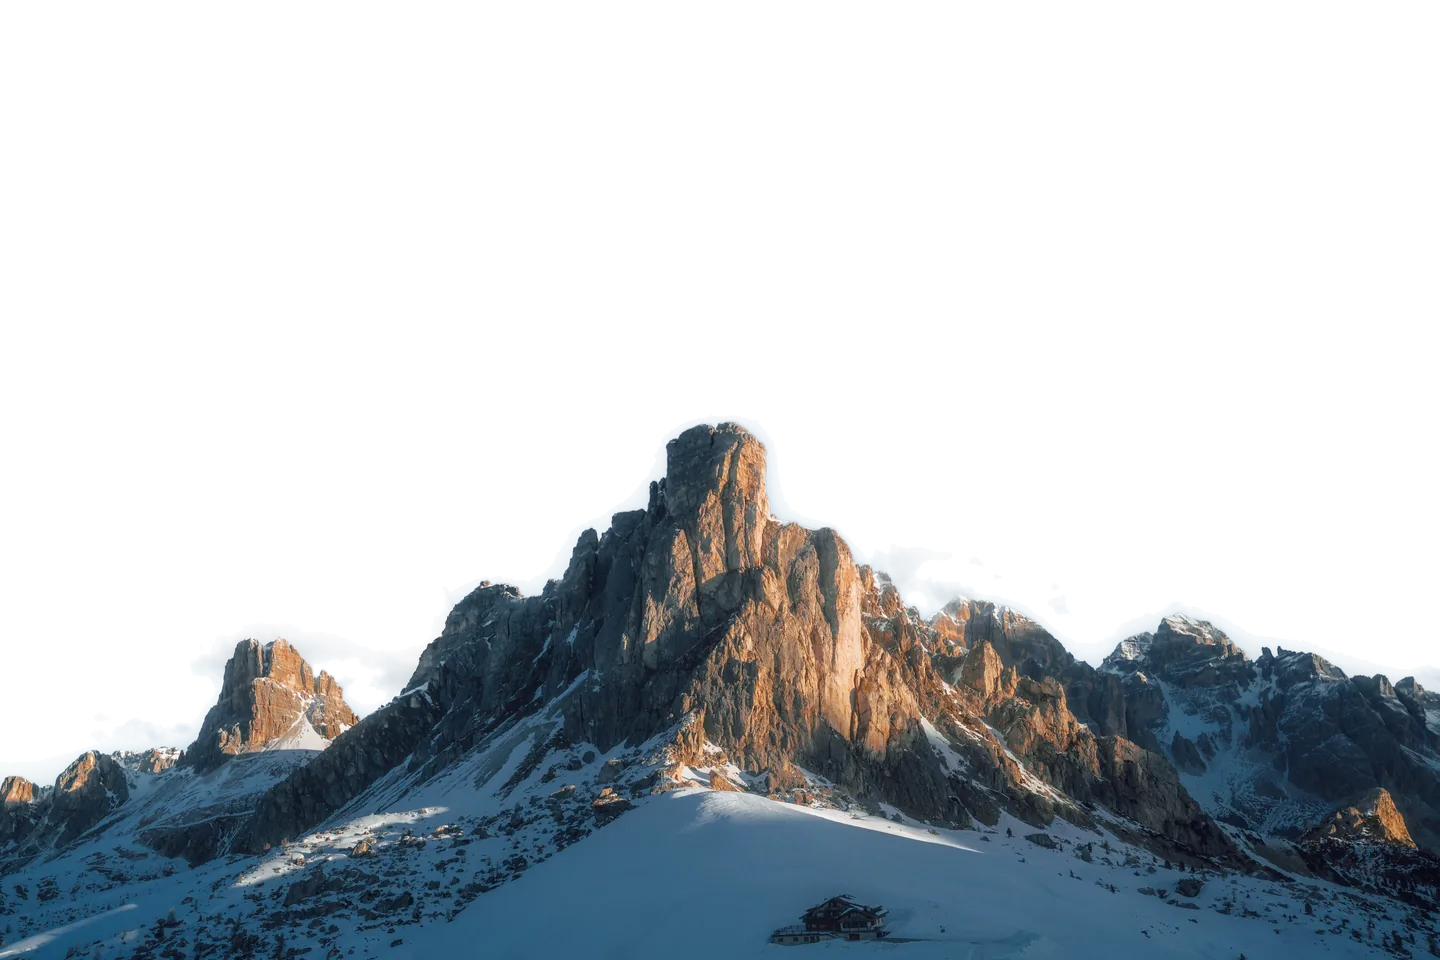
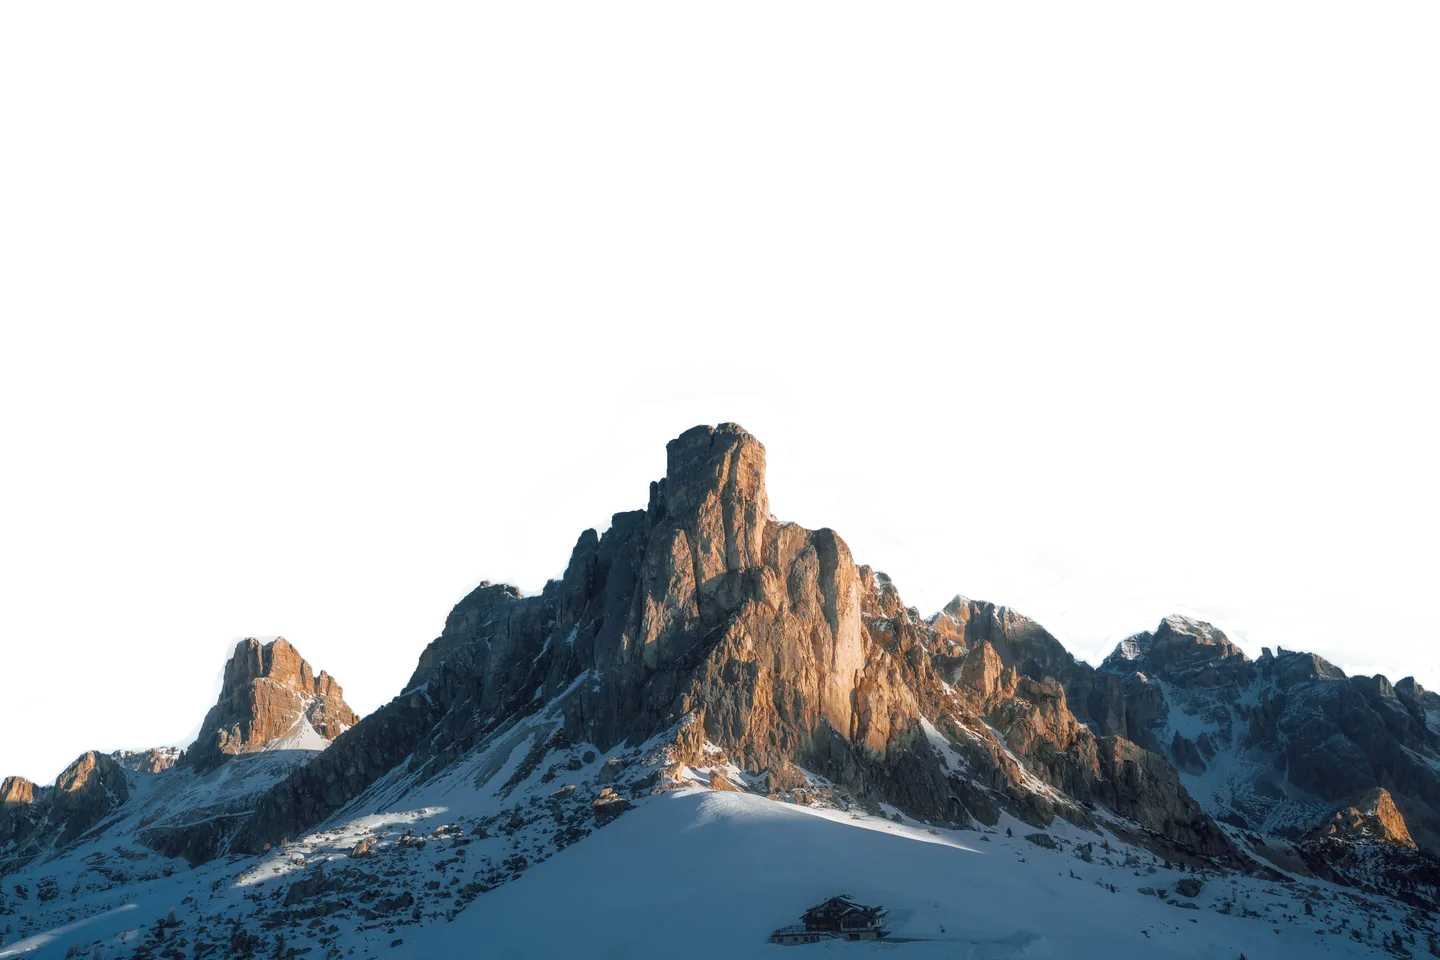
mountain

diff --git a/js/main.js b/js/main.js
@@ -14,10 +14,10 @@
   const nav = document.querySelector(".nav");
 
   // Natural size of the mountain photo and where its main summit starts
-  // (measured from assets/mountain.png: top of the peak at 43.9% height, 50.5% width).
+  // (measured from assets/mountain3.png: top of the peak at 44.0% height, 50.7% width).
   const IMG_W = 4096;
   const IMG_H = 2732;
-  const PEAK_Y = 0.439;
+  const PEAK_Y = 0.44;
 
   // How far the summit should rise into the letters, as a share of cap height.
   const PEAK_OVERLAP = 0.44;
